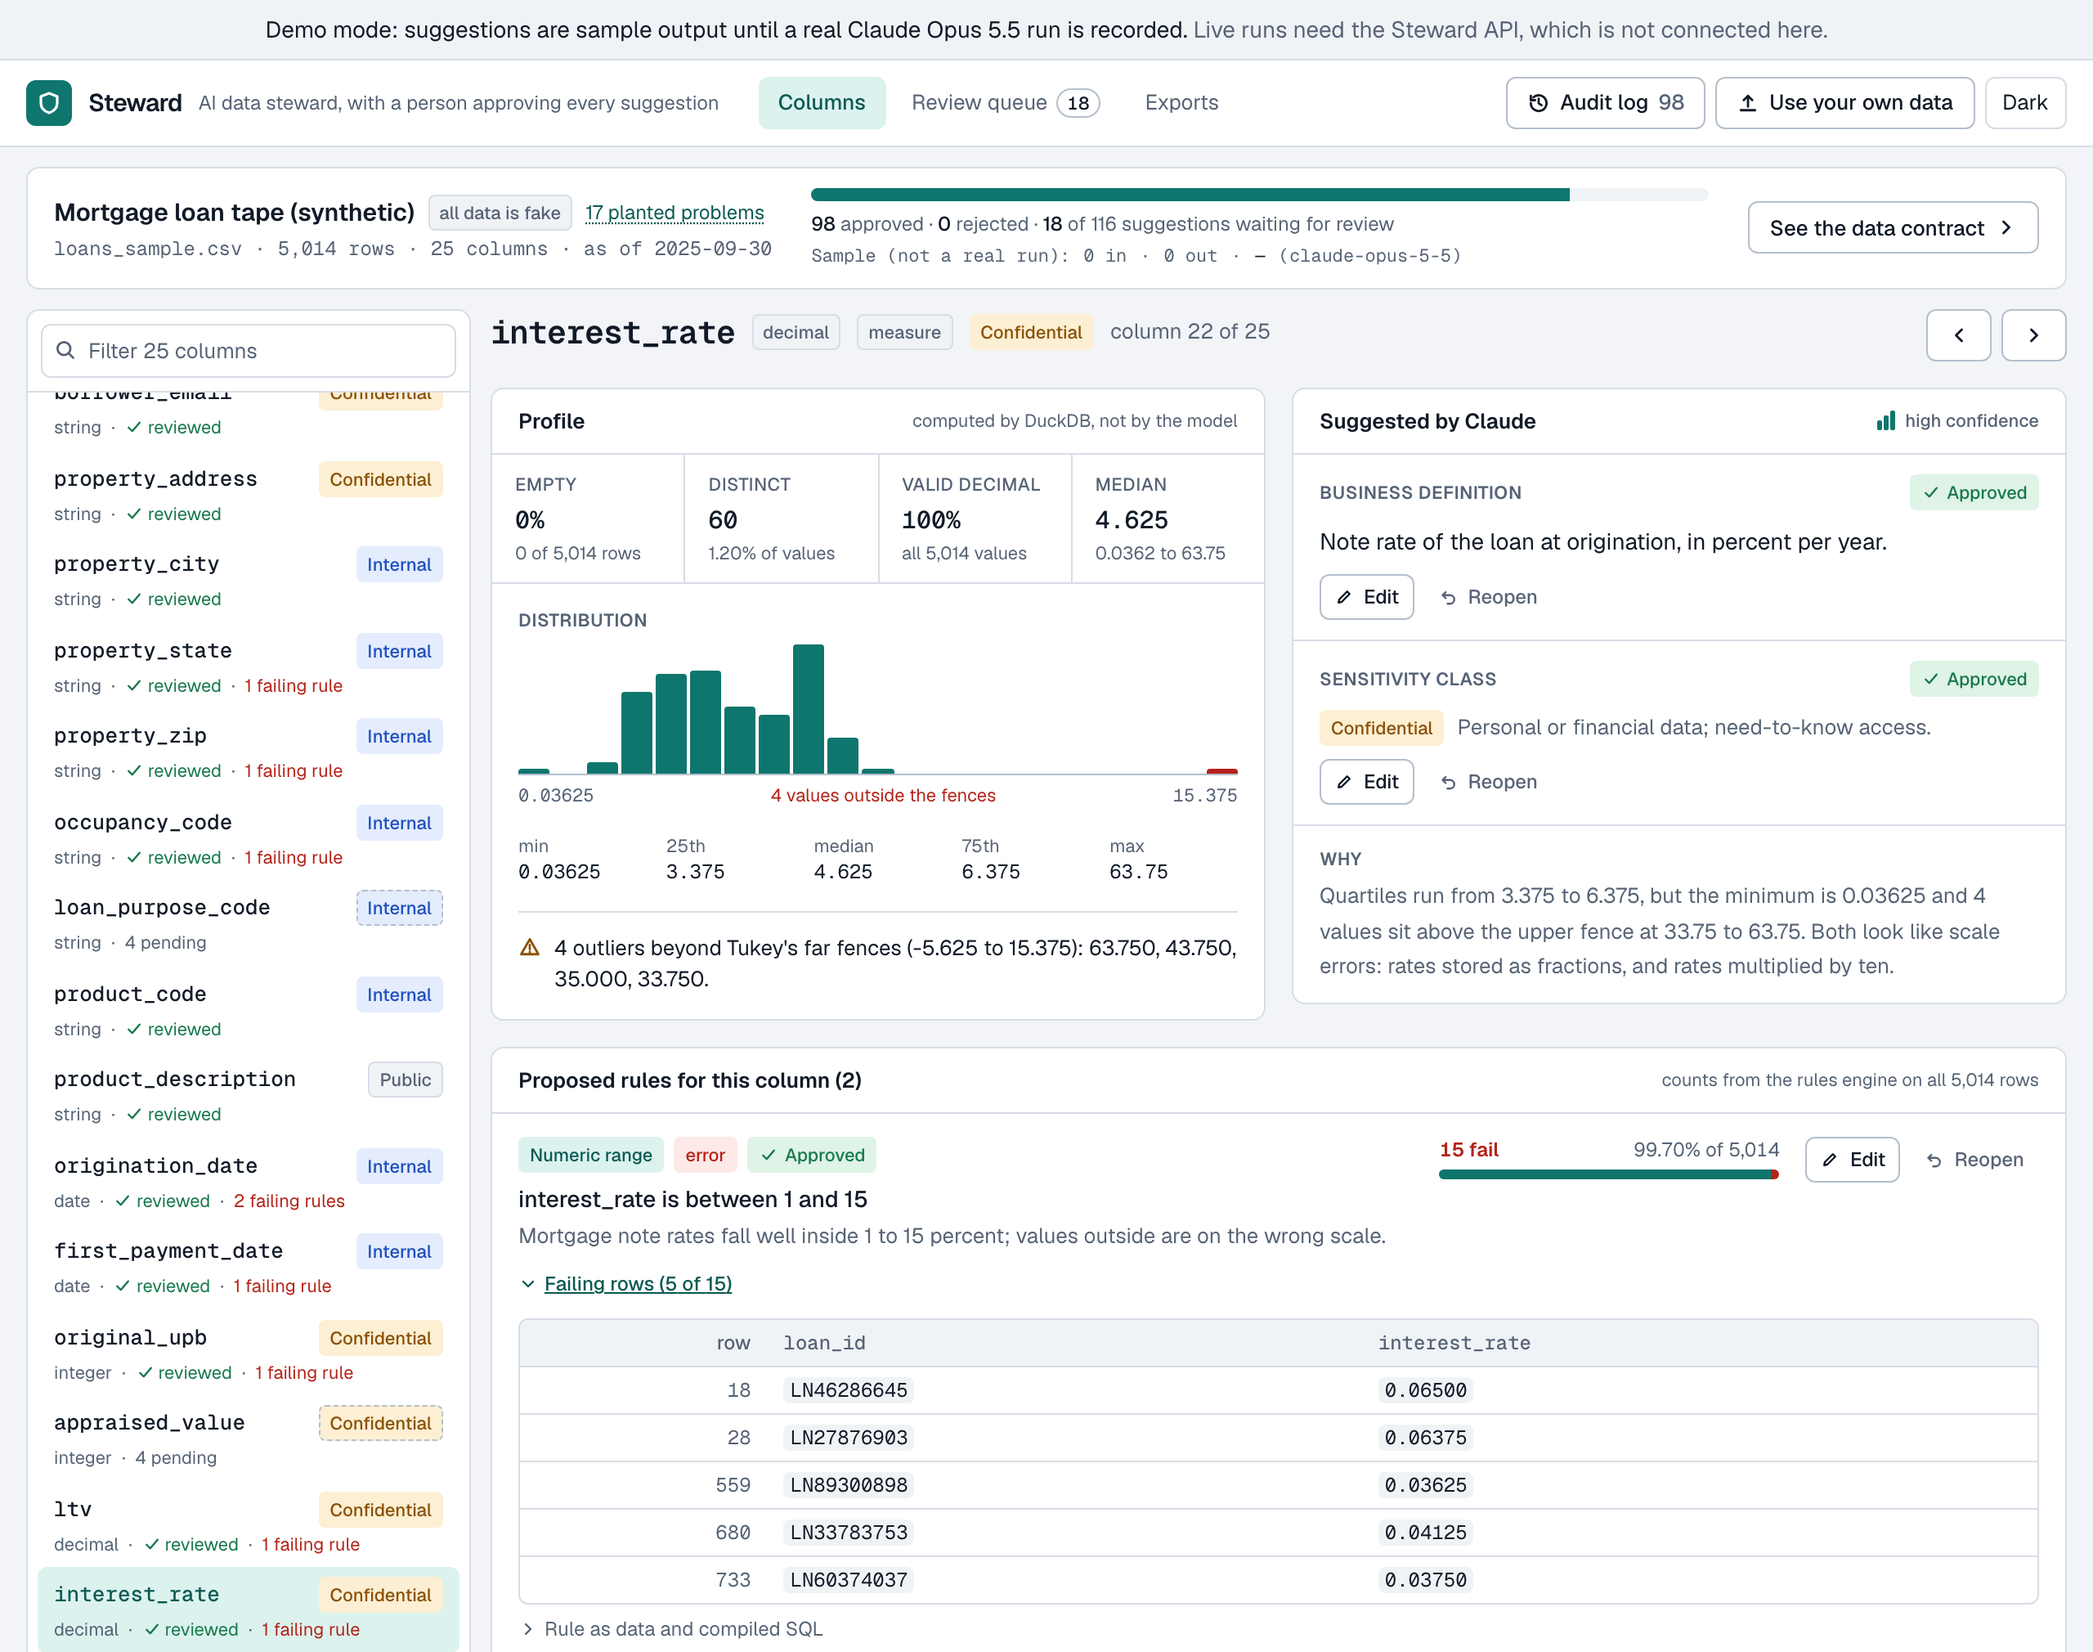
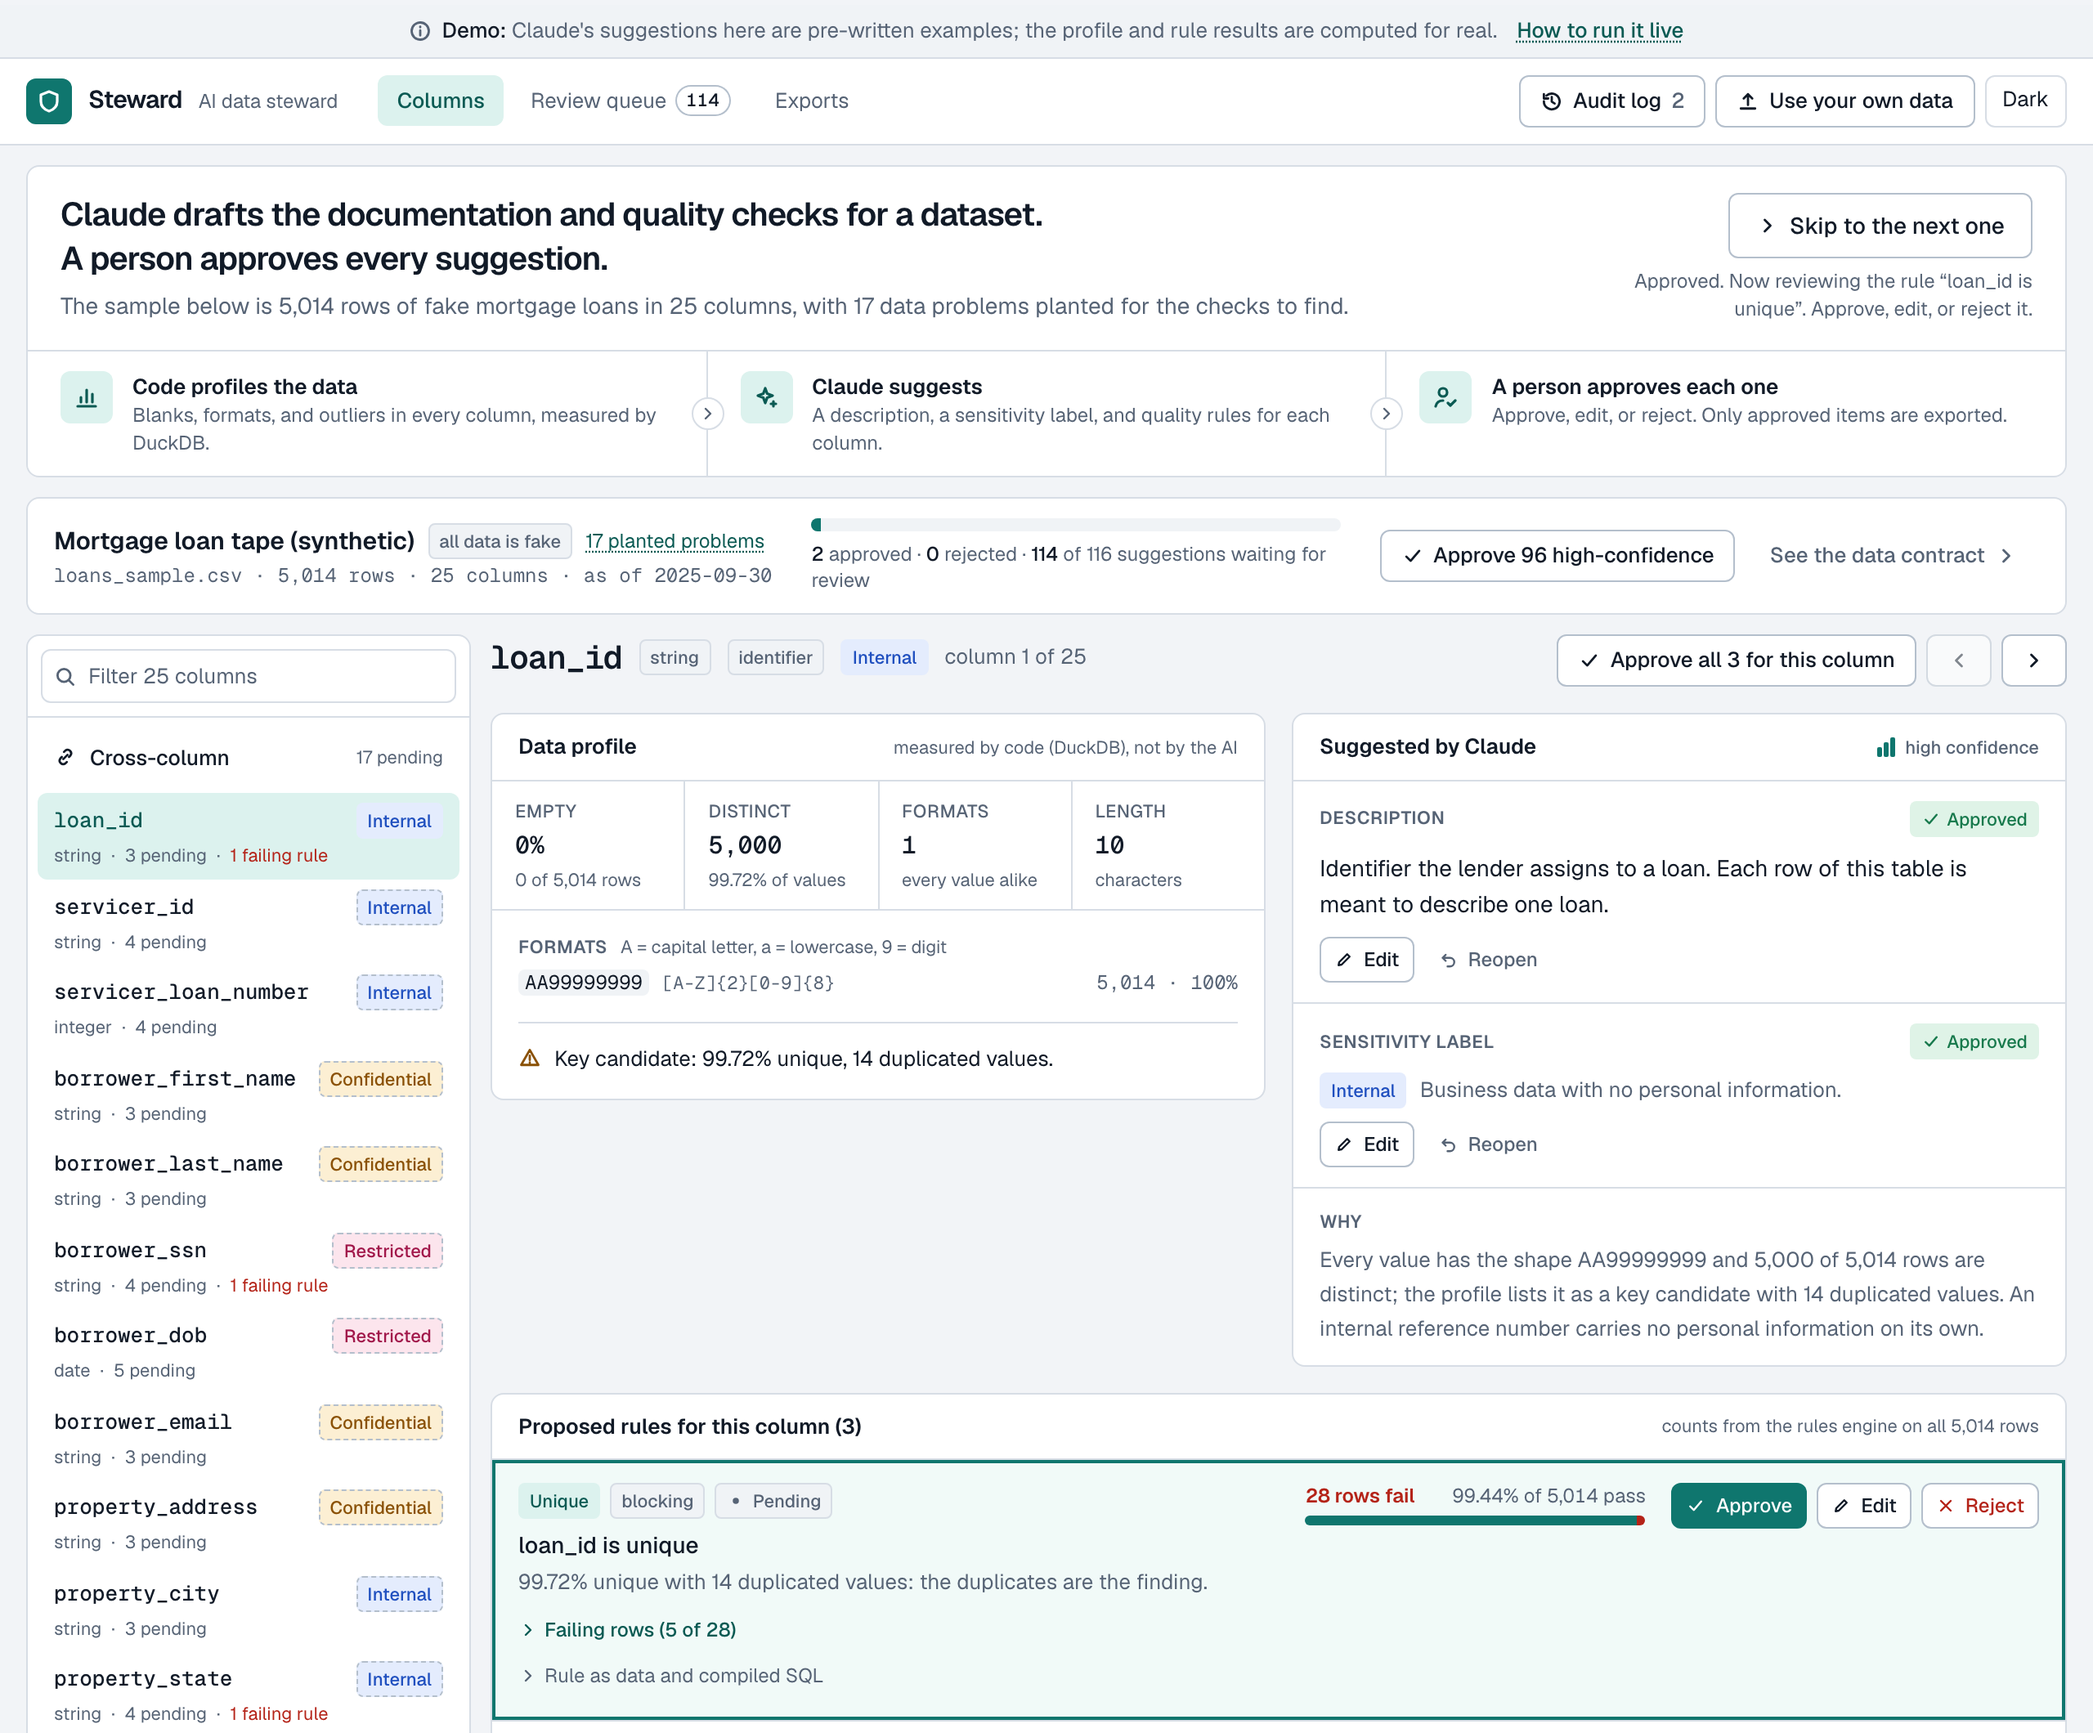
docs: README top for a first-glance reader, retaken screenshots
The README now opens with a plain pitch, a captioned hero of a review in
progress, and "What it does" in four bullets, then "Try it" with the GIF and
the local commands. The undeployed steward.vercel.app links are gone; the
live-demo badge says "coming soon" and points at Run locally.

Every screenshot is retaken. The GIF follows the one-click path from the
first screen and is 2.4 MB: screenshots.json sets a 64-color, undithered
palette, which scripts/screenshot.mjs now reads (defaults unchanged).

Changed region(s): [[0.0, 0.0, 1.0, 1.0], [0.625, 0.3743, 1.0, 0.7797], [0.5312, 0.4678, 0.5938, 0.5302]]

diff --git a/README.md b/README.md
@@ -1,25 +1,43 @@
 # Steward
 
-> An AI data steward. Drop in a dataset and it profiles every column, drafts the catalog, classifies sensitive fields, proposes data-quality rules, and writes a data contract, with a person approving every suggestion.
+> Claude drafts the documentation and quality checks for a dataset, code measures and tests the data, and a person approves every suggestion before it counts.
 
 [![CI](https://github.com/davezagin-max/steward/actions/workflows/ci.yml/badge.svg)](https://github.com/davezagin-max/steward/actions/workflows/ci.yml)
 [![License: MIT](https://img.shields.io/badge/license-MIT-blue.svg)](LICENSE)
-[![Live demo](https://img.shields.io/badge/demo-live-brightgreen.svg)](https://steward.vercel.app)
+[![Live demo: coming soon](https://img.shields.io/badge/live%20demo-coming%20soon-lightgrey.svg)](#run-locally)
 
-![Steward: a column's profile, Claude's suggestions, and a rule failing 15 rows](docs/hero.png)
+![Steward mid-review: the explanation at the top, two approved suggestions for loan_id, and a highlighted rule that 28 rows fail](docs/hero.png)
 
-## Try it in 10 seconds
+*The bundled sample mid-review. A reviewer has approved Claude's description and sensitivity label for `loan_id`; the highlighted rule, "loan_id is unique", fails on 28 duplicated rows, found by the rules engine.*
 
-**[Open the live demo](https://steward.vercel.app)**: no key, no sign-up. A synthetic mortgage loan tape (5,014 rows, 25 columns, 17 planted data problems) opens already profiled, with 116 suggestions waiting for review. Click **Approve 98 high-confidence**, then **See the data contract**. Open `interest_rate` to see a rule that fails 15 rows, with the rows.
+## What it does
 
-![Reviewing the sample: failing rows, bulk approval, the queue, and the exports](docs/demo.gif)
+- **Measures a dataset with code.** For every column of a CSV, Steward counts blanks, formats, ranges, and outliers, and finds keys and columns that depend on each other. Every measurement comes from SQL (DuckDB), none from the AI.
+- **Has Claude draft the paperwork.** For each column, Claude suggests a plain-English description, a sensitivity label (Public, Internal, Confidential, or Restricted: who may see it), and data-quality rules such as "loan_id is unique". Claude sees the measurements, never the rows.
+- **Keeps a person in charge.** Every suggestion waits for a reviewer to approve, edit, or reject it, and each decision goes into an audit log. Only approved items reach the exports: a data contract (the agreed rules for the dataset), a glossary, and a quality report.
+- **Tests the rules on the real data.** An engine runs each rule and shows the rows that fail. The sample is a fake mortgage loan table with 17 planted problems, and an answer key shows which ones the rules catch.
+
+## Try it
+
+The live demo is coming soon. This is the one-click path from the first screen:
+
+![The demo from the first screen: Start reviewing, approve two suggestions, open the 28 failing rows, approve the high-confidence suggestions in bulk, then read the data contract and the quality report](docs/demo.gif)
+
+To run it yourself (details in [Run locally](#run-locally)):
+
+```bash
+pnpm install
+pnpm dev -p 3130
+```
+
+Open http://localhost:3130. No key and no sign-up: the sample (5,014 rows, 25 columns) opens already measured, with 116 suggestions waiting. Click **Start reviewing** to go through them one at a time, or **Approve 98 high-confidence** and then open **Exports**. **17 planted problems** opens the answer key.
 
 Demo data in this commit is hand-written sample output; `pnpm record` replaces it with real Claude Opus 5.5 runs.
 
 What that means exactly:
 
 - **Computed for real:** every profile number and every pass/fail count. The DuckDB engine runs on the actual CSV, and the tests check its failing rows against the generator's list of planted problems, row for row.
-- **Hand-written for now:** the suggestion text (definitions, sensitivity classes, proposed rules, rationales). It is written in the exact shape the model's tool calls return and goes through the same validator. The app labels it "sample", never "recorded".
+- **Hand-written for now:** the suggestion text (descriptions, sensitivity labels, proposed rules, rationales). It is written in the exact shape the model's tool calls return and goes through the same validator. The app says so in its top banner and never calls it a recorded run.
 - **Not yet run against the real API:** the live Claude path. It is complete and covered by tests with a scripted client at unit, HTTP, and browser level, but no API key existed when this was built.
 
 The whole sample runs in the browser from a bundled JSON file. Uploading your own CSV and running Claude live need the Python API (see "Run locally").
@@ -38,7 +56,7 @@ The whole sample runs in the browser from a bundled JSON file. Uploading your ow
 | Audit log: who, what, when, before and after | Data contract YAML, built from approved items only |
 
 <p>
-  <img src="docs/mobile.png" alt="Steward on a phone: the sample, profiled" width="260" />
+  <img src="docs/mobile.png" alt="Steward on a phone: the explanation, the three steps, and the Start reviewing button" width="260" />
   <img src="docs/mobile-dark.png" alt="Steward on a phone in dark mode: the quality report" width="260" />
 </p>
 
@@ -129,13 +147,13 @@ cd server && uv run pytest -q                # profiler, rules engine, Claude pa
 pnpm e2e:live                                # the live path in a headless browser, no key needed
 ```
 
-251 tests: 153 pytest and 98 Vitest (4 more are live smoke tests that skip without a key).
+253 tests: 153 pytest and 100 Vitest (4 more are live smoke tests that skip without a key).
 
 - **Rules engine.** Every rule type on a table with known answers. Hostile column names and injection strings as values across all 11 types. Values never appear in compiled SQL. The engine's failing rows equal the generator's manifest, row for row, for all 17 planted problems.
 - **Profiler.** Type inference, leading-zero codes kept as text, quartiles and fences on known distributions, near keys, composite keys found and accidental ones not, dependencies with violation counts. For every reported shape, the regex beside it matches exactly the rows with that shape.
 - **What the model sees.** No SSN, email, address, or date of birth from the CSV appears in the prompt. No character of a masked value survives in its shape, including accented, Cyrillic, and CJK text.
 - **Claude passes** (scripted client): strict tools, effort per pass, one cache write and 25 cache reads, the retry paths, refusals, and stopping when the visitor cancels.
-- **Review and exports.** The reducer and audit log, restoring a saved review from untrusted storage, and the YAML emitter round-tripped through a real YAML parser.
+- **Review and exports.** The reducer and audit log, the order "Start reviewing" walks (the same order as on screen, skipping decided items), restoring a saved review from untrusted storage, and the YAML emitter round-tripped through a real YAML parser.
 - **Fixtures.** Every fixture is re-run through the live normalizer and validator, and placeholders must be marked and claim zero usage.
 
 CI runs the same checks plus a gitleaks secret scan on every push.
